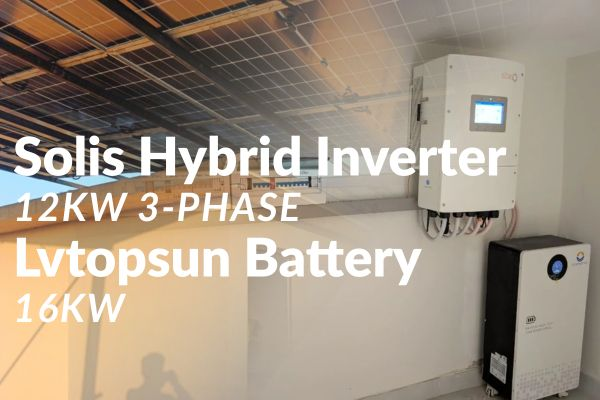
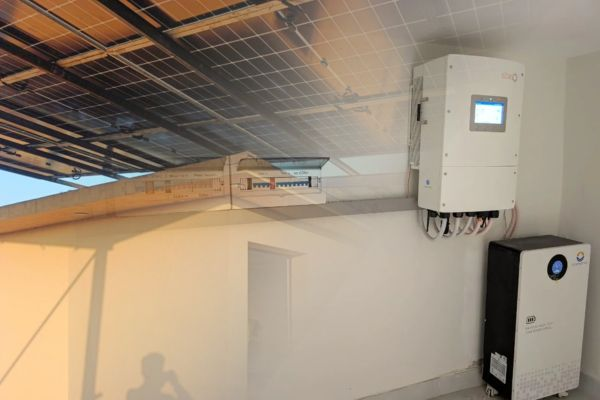
Your commit message

Changed region(s): [[0.0, 0.33, 0.84, 0.81]]

diff --git a/src/data/projects.js b/src/data/projects.js
@@ -1,25 +1,28 @@
-import projectImage from "../assets/images/projects/project.jpg";
+import projectImage01 from "../assets/images/projects/VSP_Project_01.jpg";
 import projectImage02 from "../assets/images/projects/VSP_Project_02.jpg";
+import projectImage03 from "../assets/images/projects/VSP_Project_03.jpg";
 
 export const projectsData = [
   {
     id: 1,
-    image: projectImage,
-    title: "Warehouse Rooftop Solar Project",
-    clientName: "ABC Industrial Solutions",
-    address: "Industrial Area, Lahore, Pakistan",
-    location: "Lahore",
-    projectType: "Commercial Solar Installation",
-    systemSize: "150 kW",
+    image: projectImage01,
+    onScreenTitle: "Livoltek On-Grid Inverter",
+    onScreenSubtitle: "60 kW",
+    title: "",
+    clientName: "Abid Sahib",
+    address: "Kot Abdul Malik",
+    location: "Kot Abdul Malik",
+    projectType: "Warehouse",
+    systemSize: "60 kW",
     systemType: "On-Grid Solar System",
-    completionDate: "August 2026",
+    completionDate: "Jun 2026",
     description:
-      "A high-capacity rooftop solar installation designed to reduce electricity costs and improve long-term energy independence for a large warehouse facility.",
+      "A 60 kW solar installation completed for Abid Sahib in Kot Abdul Malik, featuring high-performance NUUKO 720W solar panels and a Livoltek 50 kW on-grid inverter for efficient and reliable solar power generation.",
     highlights: [
-      "150 kW solar capacity",
-      "Rooftop PV installation",
-      "Commercial energy savings",
-      "Professional installation",
+      "60 kW solar capacity",
+      "NUUKO 720W solar panels",
+      "Livoltek 50 kW on-grid inverter",
+      "High-efficiency solar generation",
     ],
     category: "Commercial",
     status: "Completed",
@@ -28,20 +31,22 @@ export const projectsData = [
   {
     id: 2,
     image: projectImage02,
-    title: "Residential Rooftop Solar Installation",
-    clientName: "Private Residential Client",
-    address: "DHA, Lahore, Pakistan",
+    onScreenTitle: "Solis Hybrid Inverter",
+    onScreenSubtitle: "12kW 3-Phase",
+    title: "",
+    clientName: "Tahseen Afzal",
+    address: "Street No. 8, Askari 10",
     location: "Lahore",
     projectType: "Residential Solar Installation",
-    systemSize: "10 kW",
+    systemSize: "12 kW",
     systemType: "Hybrid Solar System",
-    completionDate: "July 2026",
+    completionDate: "September 2026",
     description:
-      "A modern residential solar solution combining rooftop panels and battery backup to provide reliable power and reduce dependence on the grid.",
+      "We successfully completed a high-performance residential solar system designed to deliver seamless energy independence and reliable backup power. Engineered with top-tier industry components, this comprehensive setup ensures maximum efficiency and long-term safety.",
     highlights: [
-      "10 kW solar capacity",
+      "12 kW solar capacity",
       "Hybrid inverter system",
-      "Battery backup",
+      "LVTOPSUN 16kw battery",
       "Reduced electricity bills",
     ],
     category: "Residential",
@@ -50,24 +55,26 @@ export const projectsData = [
 
   {
     id: 3,
-    image: projectImage,
-    title: "Commercial Net-Metering Solar Setup",
-    clientName: "XYZ Commercial Center",
-    address: "Gulberg, Lahore, Pakistan",
+    image: projectImage03,
+    onScreenTitle: "CoreTech Inverter",
+    onScreenSubtitle: "6kw IP66",
+    title: "",
+    clientName: "Irfan Javaid",
+    address: "Jinnah Block, Bahria Town",
     location: "Lahore",
-    projectType: "Commercial Net-Metering Project",
-    systemSize: "100 kW",
-    systemType: "On-Grid Solar System",
-    completionDate: "June 2026",
+    projectType: "Residential Solar Installation",
+    systemSize: "6 kW",
+    systemType: "Hybrid Solar System",
+    completionDate: "August 2026",
     description:
-      "A commercial solar and net-metering solution developed to maximize daytime energy generation while helping the client lower operational electricity expenses.",
+      "Empowering homes with uninterrupted clean energy. This recently completed residential project combines advanced hybrid storage with high-output generation to protect against outages while maximizing daily savings.",
     highlights: [
-      "100 kW solar capacity",
-      "Net-metering ready",
-      "Commercial rooftop installation",
-      "Energy cost optimization",
+      "6 kW solar capacity",
+      "Hybrid inverter system",
+      "LVTOPSUN 51.2 kw battery",
+      "Reduced electricity bills",
     ],
-    category: "Commercial",
+    category: "Residential",
     status: "Completed",
   },
 ];

diff --git a/src/components/sections/Projects.jsx b/src/components/sections/Projects.jsx
@@ -68,6 +68,16 @@ export default function Projects() {
                       {project.status}
                     </span>
                   </div>
+
+                  {/* Bottom Left Text with Gradient Overlay */}
+                  <div className="absolute inset-x-0 bottom-0 bg-gradient-to-t from-black/80 via-black/40 to-transparent pt-12 pb-4 px-4">
+                    <span className="block text-xs sm:text-sm font-medium text-gray-300">
+                      {project.onScreenSubtitle}
+                    </span>
+                    <h3 className="text-lg sm:text-xl font-bold text-white">
+                      {project.onScreenTitle}
+                    </h3>
+                  </div>
                 </div>
 
                 {/* Content */}
